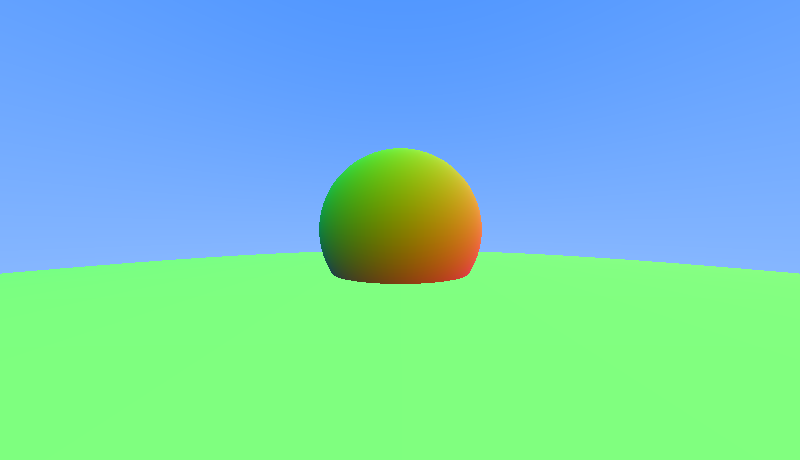
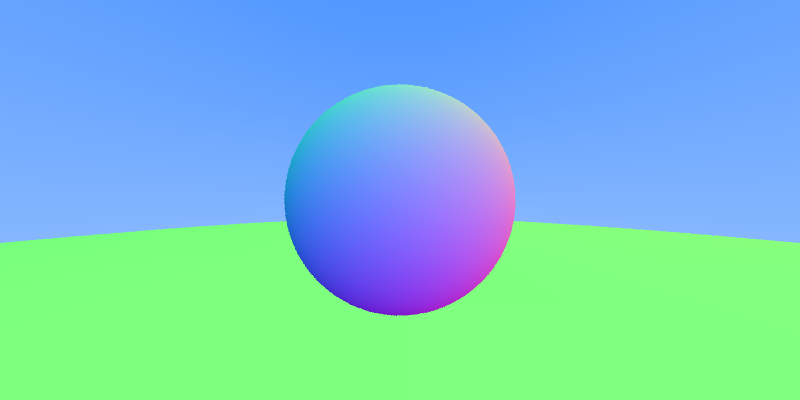
Added basic multi sample anti-aliasing
* Added a camera class to facilitate generation of view rays

Changed region(s): [[0.0, 0.21, 1.0, 0.81]]

diff --git a/src/main.cpp b/src/main.cpp
@@ -5,6 +5,7 @@
 #include <fstream>
 #include <string>
 #include <vector>
+#include <cstdlib>
 
 #include "stb/stb_image.h"
 #include "stb/stbi_image_write.h"
@@ -14,10 +15,12 @@
 #include "math/utils.h"
 #include "core/scene.h"
 #include "geometrics/sphere.h"
+#include "camera/camera.h"
 
 #define OUTPUT_WIDTH 800
-#define OUTPUT_HEIGHT 460
+#define OUTPUT_HEIGHT 400
 #define NUM_CHANNELS 3
+#define NUM_SAMPLES_PER_PIXEL 4
 
 Vector3f SkyGradient(const Ray& r)
 {
@@ -49,8 +52,8 @@ Scene* GenerateScene()
 {
     Scene* scene = new Scene();
 
-    scene->AddPrimitive(new Sphere(Vector3f(0.0f, 0.0f, 3.0f), 1.0f));
-    scene->AddPrimitive(new Sphere(Vector3f(0.0f, -100.5f, 1.0f), 100.0f));
+    scene->AddPrimitive(new Sphere(Vector3f(0.0f, 0.0f, -1.0f), 0.5f));
+    scene->AddPrimitive(new Sphere(Vector3f(0.0f, -100.5f, -1.0f), 100.0f));
 
     return scene;
 }
@@ -64,20 +67,26 @@ int main()
 
     const Vector3f resolution(OUTPUT_WIDTH, OUTPUT_HEIGHT, 0.0f);
     Scene* scene = GenerateScene();
+    Camera camera;
 
     for (int y = OUTPUT_HEIGHT - 1; y >= 0; y--)
     {
         for (int x = 0; x < OUTPUT_WIDTH; x++)
         {
-            const Vector3f fragCoord(float(x), float(y), 0.0f);
-            const Vector3f uv = (fragCoord - 0.5f * resolution) / resolution.y * 2.0f;
+            Vector3f color = Vector3f::Zero();
 
-            // View ray
-            const Vector3f origin = Vector3f::Zero();
-            const Vector3f direction = Vector3f(uv.x, uv.y, 1.0f).Normalized();
-            const Ray viewRay(origin, direction, 1000.0f);
+            // Get samples
+            for (int i = 0; i < NUM_SAMPLES_PER_PIXEL; i++)
+            {
+                float rand_u = (float)rand() / RAND_MAX;
+                float rand_v = (float)rand() / RAND_MAX;
+                float u = float(x + rand_u) / float(OUTPUT_WIDTH);
+                float v = float(y + rand_v) / float(OUTPUT_HEIGHT);
+                Ray viewRay = camera.GetViewRay(u, v);
+                color += ShadePixel(viewRay, *scene);
+            }
 
-            Vector3f color = ShadePixel(viewRay, *scene);
+            color /= NUM_SAMPLES_PER_PIXEL;
 
             // Clamp color values for ppm
             color.x = SATURATE(color.x);

diff --git a/src/camera/camera.h b/src/camera/camera.h
@@ -1,0 +1,24 @@
+#ifndef __CAMERA_H__
+#define __CAMERA_H__
+
+#include "math\ray.h"
+
+class Camera
+{
+public:
+    Camera() {
+        m_Position = Vector3f::Zero();
+        m_Min = Vector3f(-2.0f, -1.0f, -1.0f);
+        m_VerticalStep = Vector3f(0.0f, 2.0f, 0.0f);
+        m_HorizontalStep = Vector3f(4.0f, 0.0f, 0.0f);
+    }
+
+    Ray GetViewRay(float u, float v) { return Ray(m_Position, m_Min + u * m_HorizontalStep + v * m_VerticalStep - m_Position); }
+
+    Vector3f m_Position;
+    Vector3f m_Min;
+    Vector3f m_HorizontalStep;
+    Vector3f m_VerticalStep;
+};
+#endif // !__CAMERA_H__
+

diff --git a/src/math/ray.h b/src/math/ray.h
@@ -8,7 +8,7 @@ class Ray
 {
 public:
     Ray() {}
-    Ray(const Vector3f& ori, const Vector3f& dir, float dist, float tmin = 0.0f, float tmax = FLT_MAX);
+    Ray(const Vector3f& ori, const Vector3f& dir, float dist = 1000.0f, float tmin = 0.0f, float tmax = FLT_MAX);
     Ray(const Ray& copy);
     
     inline Vector3f operator()(float t) const { return m_Origin + t * m_Direction; }
